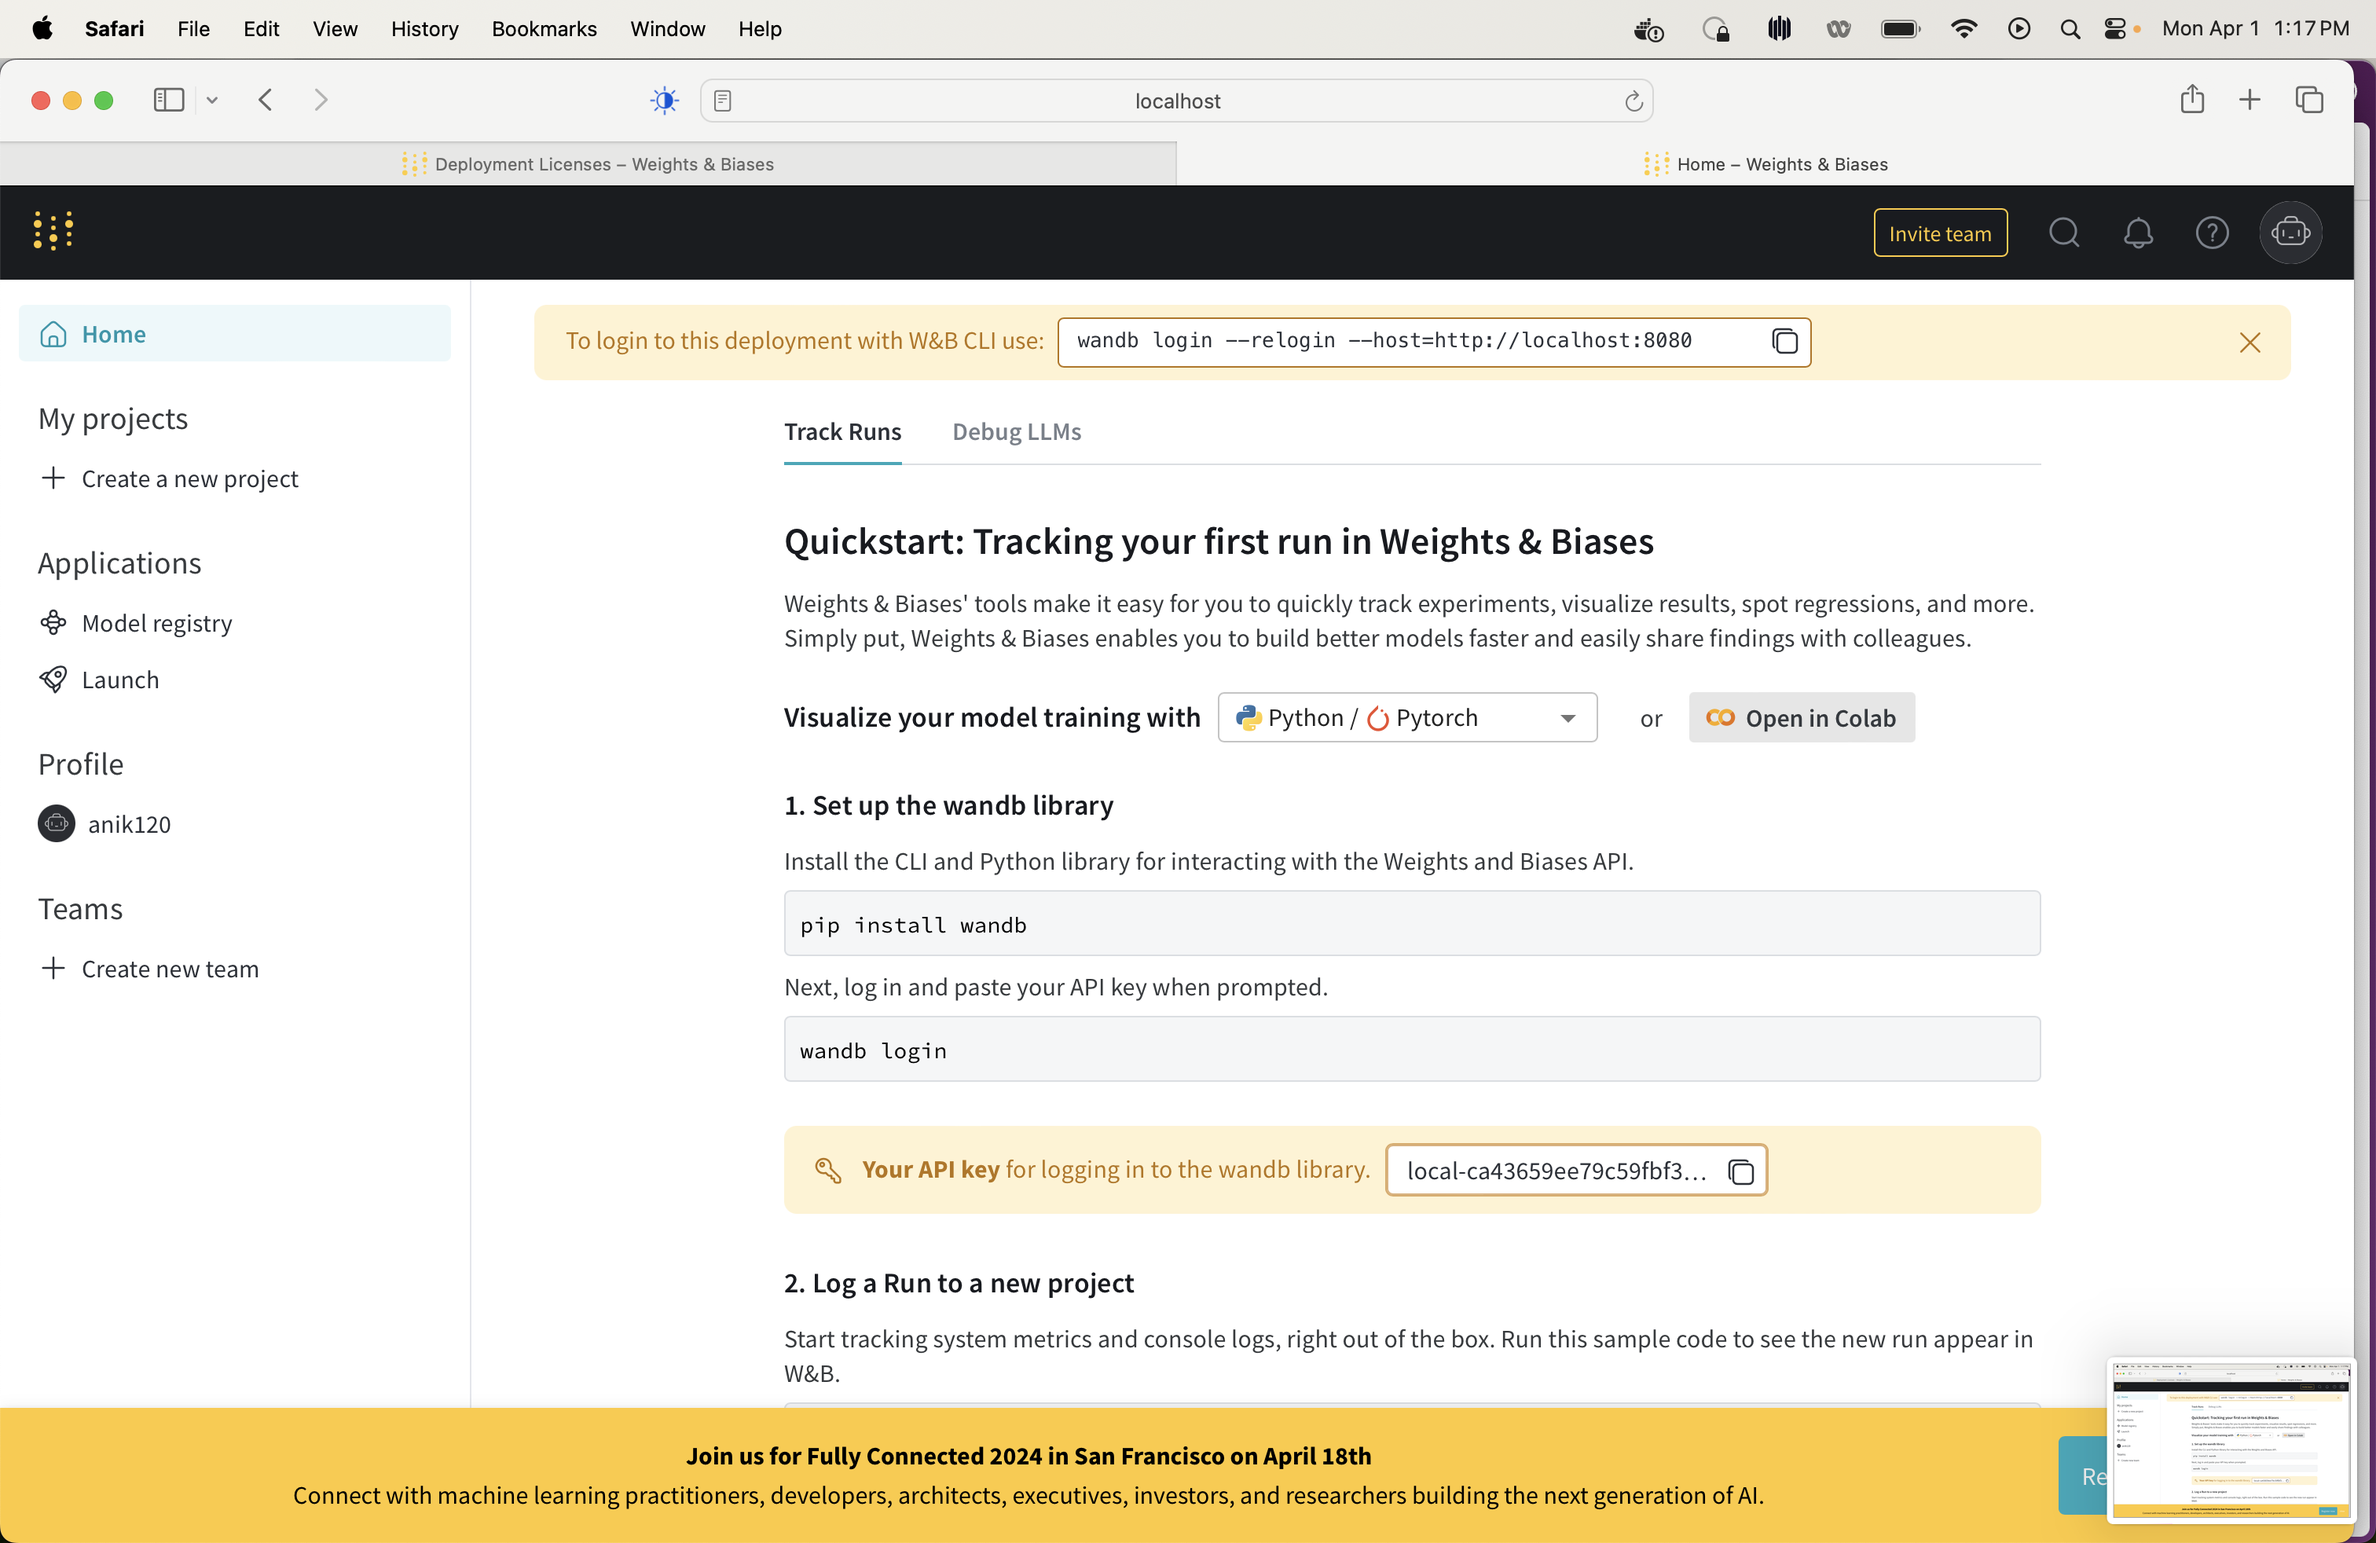
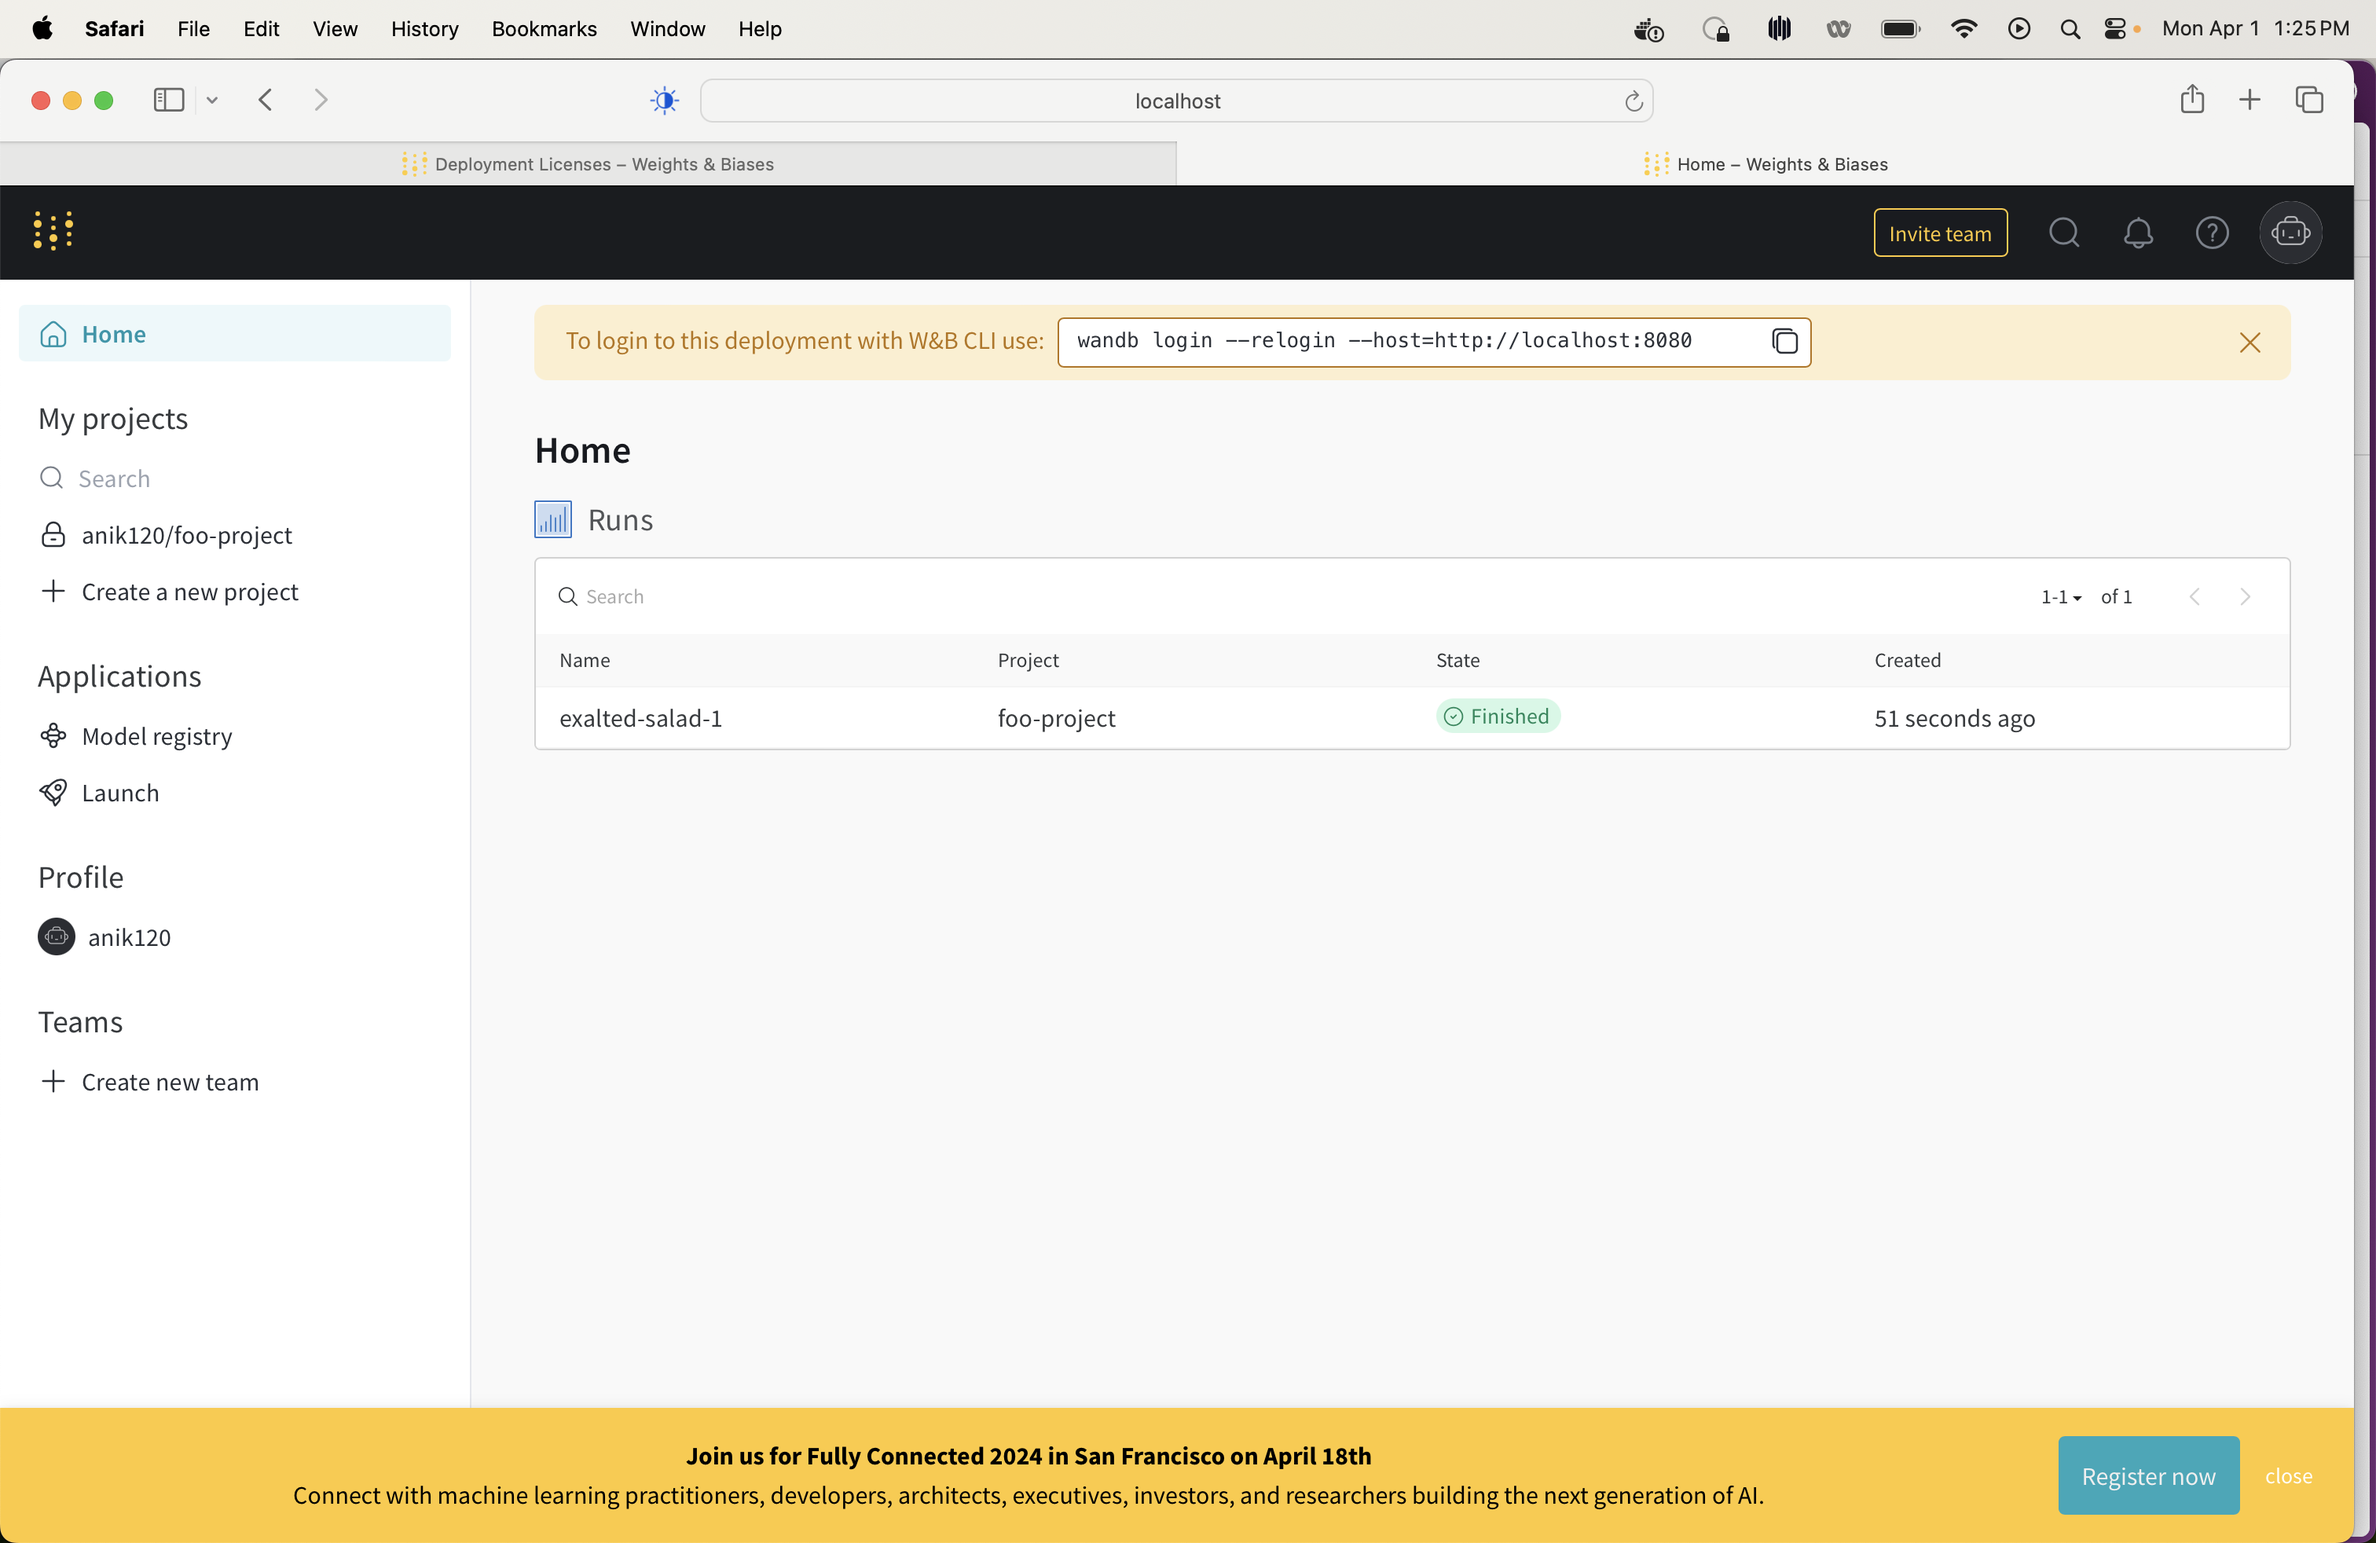
Update after going through the README

diff --git a/README.md b/README.md
@@ -15,79 +15,98 @@ pip install wandb
 wandb server start
 ```
 
-### Screenshot 1
-
 ![image info](./screenshots/screenshot-1.png)
 
-### Screenshot 2
+### Go to http://localhost:8080 in your browswer
 
 ![image info](./screenshots/screenshot-2.png)
 
-### Screenshot 3
+### Click "Login", create an account. 
+
+Use a personal email and don't forget the password!
 
 ![image info](./screenshots/screenshot-3.png)
 
-### Screenshot 4
+### Click on "Get a free license"
 
 ![image info](./screenshots/screenshot-4.png)
 
-### Screenshot 5
+### Click on "Get a free license"
 
 ![image info](./screenshots/screenshot-5.png)
 
-### Screenshot 6
+### Click on "Continue"
 
 ![image info](./screenshots/screenshot-6.png)
 
-### Screenshot 7
+### Click on "New Organization"
 
 ![image info](./screenshots/screenshot-7.png)
 
-### Screenshot 8
+### Add an Organization Name then click "Next"
 
 ![image info](./screenshots/screenshot-8.png)
 
-### Screenshot 9
+### Click "Generate License Key"
 
 ![image info](./screenshots/screenshot-9.png)
 
-### Screenshot 10
+### Click "Copy License"
 
 ![image info](./screenshots/screenshot-10.png)
 
-### Screenshot 11
+### Click "Copy"
 
 ![image info](./screenshots/screenshot-11.png)
 
-### Screenshot 12
+### Go back to localhost:8000, click on "Add license"
 
 ![image info](./screenshots/screenshot-12.png)
 
-### Screenshot 13-maybe
+### Paste license into text box
 
 ![image info](./screenshots/screenshot-13-maybe.png)
 
-### Screenshot 13
-
 ![image info](./screenshots/screenshot-13.png)
 
-### Screenshot 14
+### Click "Update settings"
 
 ![image info](./screenshots/screenshot-14.png)
 
-### Screenshot 15
+### Go back to localhost:8000, copy API key
 
 ![image info](./screenshots/screenshot-15.png)
 
-### Screenshot 16
+### Use key in below python program
 
-![image info](./screenshots/screenshot-16.png)
+```
+```
 
-### Screenshot 17
+### Run the following python program
+```
+$ cat wb-run.py
+import wandb
 
-![image info](./screenshots/screenshot-17.png)
+WANDB_BASE_URL = "http://localhost:8080"
+WANDB_API_KEY = "local-ca43659ee79c59fbf3b5f551218c659766038799"
+wandb.login(host=WANDB_BASE_URL, key=WANDB_API_KEY)
+run = wandb.init(project="foo-project",group="foo-group",job_type='foo-job-type')
+run.finish()
+```
 
-### Screenshot 18
+```
+python wb-run.py
+```
+
+See run under My projects
 
 ![image info](./screenshots/screenshot-18.png)
+
+### Screenshot 19
+
+![image info](./screenshots/screenshot-19.png)
+
+### Screenshot 20
+
+![image info](./screenshots/screenshot-20.png)
 
